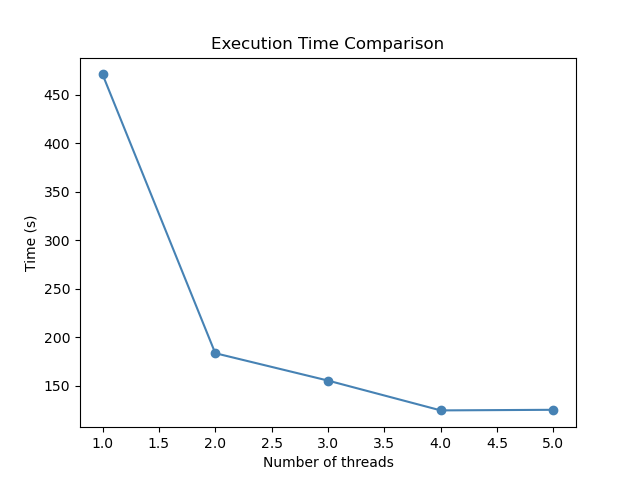
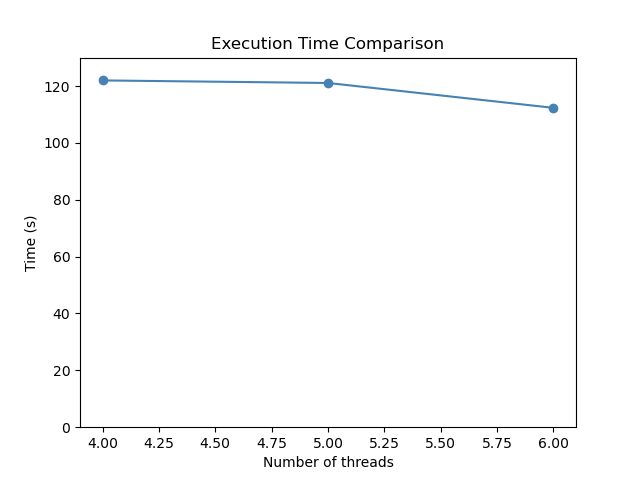
done

diff --git a/src/benchmark.py b/src/benchmark.py
@@ -74,34 +74,35 @@ plt.xlabel("Function")
 plt.xticks(rotation=90)
 plt.ylabel("Time (s)")
 plt.title("Execution Time Comparison")
+plt.tight_layout()  # Make sure labels are not cut off
 plt.savefig("figures/functions_benchmark.png")
 
 
-functions = [
-    (
-        i,
-        lambda i=i: calculate_mandelbrot_multithreaded(C, max_iterations, i),
-    )
-    for i in range(1, int(multiprocessing.cpu_count() / 2 + 1))
-]
+# functions = [
+#     (
+#         i,
+#         lambda i=i: calculate_mandelbrot_multithreaded(C, max_iterations, i),
+#     )
+#     for i in range(1, int(multiprocessing.cpu_count() / 2 + 1))
+# ]
 
 
-# Measure execution time for each function
-threadsBenchmark = benchmark_functions(functions)
+# # Measure execution time for each function
+# threadsBenchmark = benchmark_functions(functions)
 
 
-# Create a line, dot plot of the results
-plt.figure()
-plt.plot(
-    [i[0] for i in threadsBenchmark],
-    [i[1] for i in threadsBenchmark],
-    "o-",
-    color="steelblue",
-)
-plt.xlabel("Number of threads")
-plt.ylabel("Time (s)")
-plt.title("Execution Time Comparison")
-plt.savefig("figures/computational_speedup_5000x5000.png")
+# # Create a line, dot plot of the results
+# plt.figure()
+# plt.plot(
+#     [i[0] for i in threadsBenchmark],
+#     [i[1] for i in threadsBenchmark],
+#     "o-",
+#     color="steelblue",
+# )
+# plt.xlabel("Number of threads")
+# plt.ylabel("Time (s)")
+# plt.title("Execution Time Comparison")
+# plt.savefig("figures/computational_speedup_5000x5000.png")
 
 
 # Test multithreading with 1 to 6 threads using a bigger dataset.
@@ -109,14 +110,18 @@ plt.savefig("figures/computational_speedup_5000x5000.png")
 h5py_file = h5py.File("data/mandelbrot.hdf5", "r")
 C = h5py_file["C_15000_15000"][:]
 h5py_file.close()
-
+print(
+    "Starting benchmark with C = {}x{} and {} iterations".format(
+        C.shape[0], C.shape[1], max_iterations
+    )
+)
 
 functions = [
     (
         i,
         lambda i=i: calculate_mandelbrot_multithreaded(C, max_iterations, i),
     )
-    for i in range(1, int(multiprocessing.cpu_count() / 2 + 1))
+    for i in range(4, int(multiprocessing.cpu_count() / 2 + 1))
 ]
 
 threadsBenchmark_big = benchmark_functions(functions)
@@ -129,5 +134,6 @@ plt.plot(
 )
 plt.xlabel("Number of threads")
 plt.ylabel("Time (s)")
+plt.ylim(0, 130)
 plt.title("Execution Time Comparison")
 plt.savefig("figures/computational_speedup_15000x15000.png")
